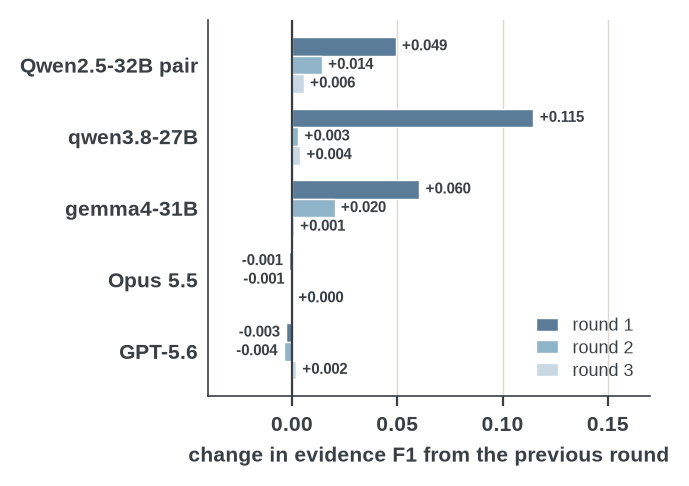
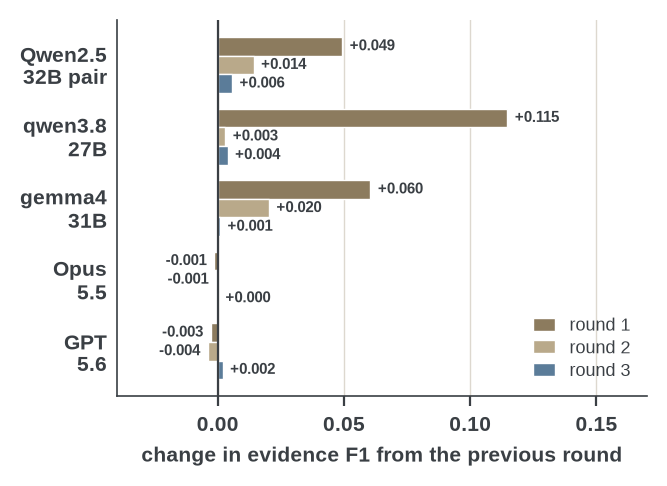
Register bars in slate_rust; repair bars in coast colours with stacked model labels

Changed region(s): [[0.03, 0.0309, 0.9595, 0.8951], [0.2099, 0.8333, 0.9895, 0.9568], [0.6597, 0.8025, 0.7796, 0.8951]]

diff --git a/scripts/paper_figures.py b/scripts/paper_figures.py
@@ -98,8 +98,8 @@ def fig_rounds():
     left (user 2026-10-21). rounds.pdf (verdict accuracy, main text) and rounds_f1.pdf (evidence F1,
     appendix)."""
     suffix = {0: "dprime", 1: "dprime_verify1", 2: "dprime_verify2", 3: "dprime_verify3"}
-    short = {"q25pair": "Qwen2.5-32B pair", "qwen38_27b": "qwen3.8-27B", "gemma4_31b": "gemma4-31B", "opus": "Opus 5.5", "gpt": "GPT-5.6"}
-    cols = [SLATE, SEA, MIST]
+    short = {"q25pair": "Qwen2.5\n32B pair", "qwen38_27b": "qwen3.8\n27B", "gemma4_31b": "gemma4\n31B", "opus": "Opus\n5.5", "gpt": "GPT\n5.6"}
+    cols = [DRIFT, DUNE, SLATE]  # coast set: drift, dune, slate
     for name, getter, title in (("rounds", acc, "verdict accuracy"), ("rounds_f1", den_f1, "evidence F1")):
         fig, ax = plt.subplots(figsize=(3.4, 2.5))
         ys = np.arange(len(MODELS))[::-1]; h = 0.26
@@ -117,7 +117,7 @@ def fig_rounds():
                 ax.text(v + (0.003 if v >= 0 else -0.003), yi, f"{v:+.3f}", ha="left" if v >= 0 else "right",
                         va="center", fontsize=5.4, color=CHARCOAL, fontweight="bold")
         ax.axvline(0, color=CHARCOAL, lw=0.8)
-        ax.set_yticks(ys); ax.set_yticklabels([short[m[0]] for m in MODELS])
+        ax.set_yticks(ys); ax.set_yticklabels([short[m[0]] for m in MODELS], linespacing=1.1)
         ax.set_xlim(-0.04, 0.17); ax.set_xticks([0.0, 0.05, 0.10, 0.15])
         ax.set_xlabel(f"change in {title} from the previous round", fontsize=7.5)
         ax.grid(axis="x"); ax.grid(False, axis="y")
@@ -262,7 +262,7 @@ def fig_registers():
     bar per open model, ART + verifier only; Original from the main test runs, the other registers from
     the test_*_registers_dprime_verify2 runs."""
     import families_candidates as FC  # noqa: E402
-    cols = FC.PALETTES_MUTED["coast"]  # muted set (user 2026-10-21: meadow too bright here)
+    cols = FC.PALETTES_MUTED["slate_rust"]  # muted set (user 2026-10-21)
     models = [("q25pair", "Qwen2.5-32B pair"), ("qwen38_27b", "qwen3.8-27B"), ("gemma4_31b", "gemma4-31B")]
     regs = ["Original", "Research", "Media", "Clinical"]
     fig, ax = plt.subplots(figsize=(3.4, 2.4))
